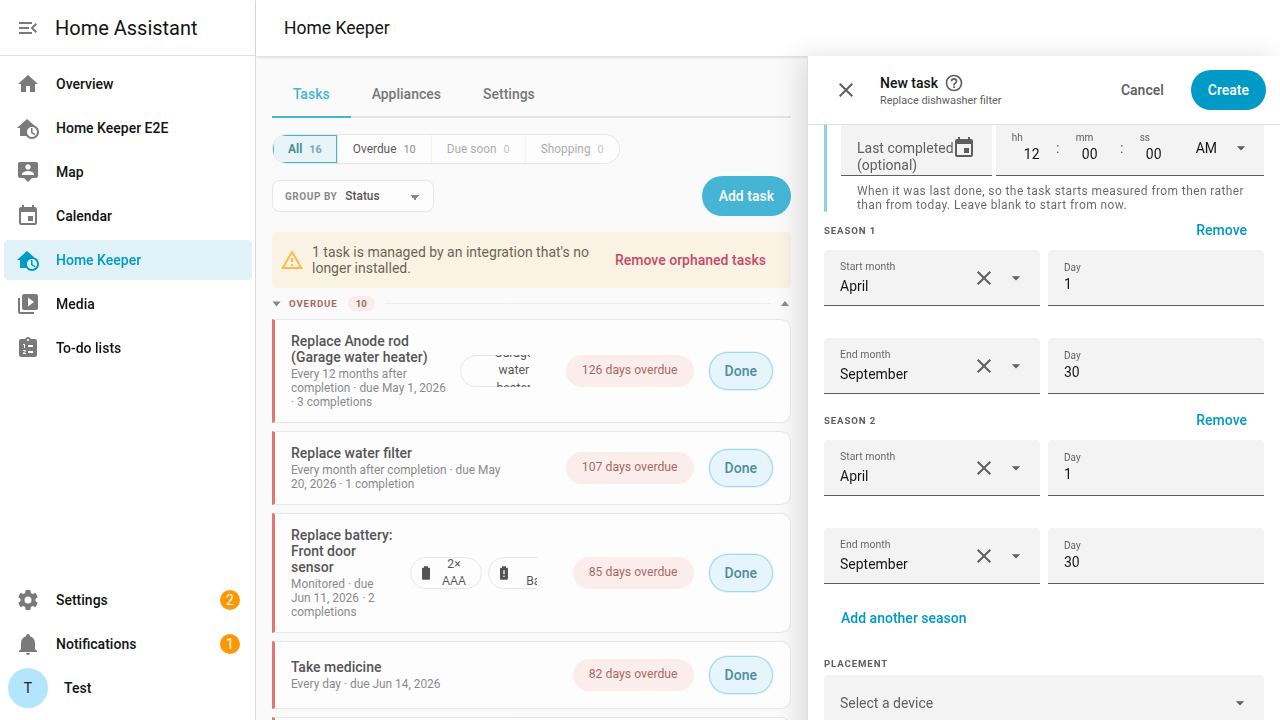
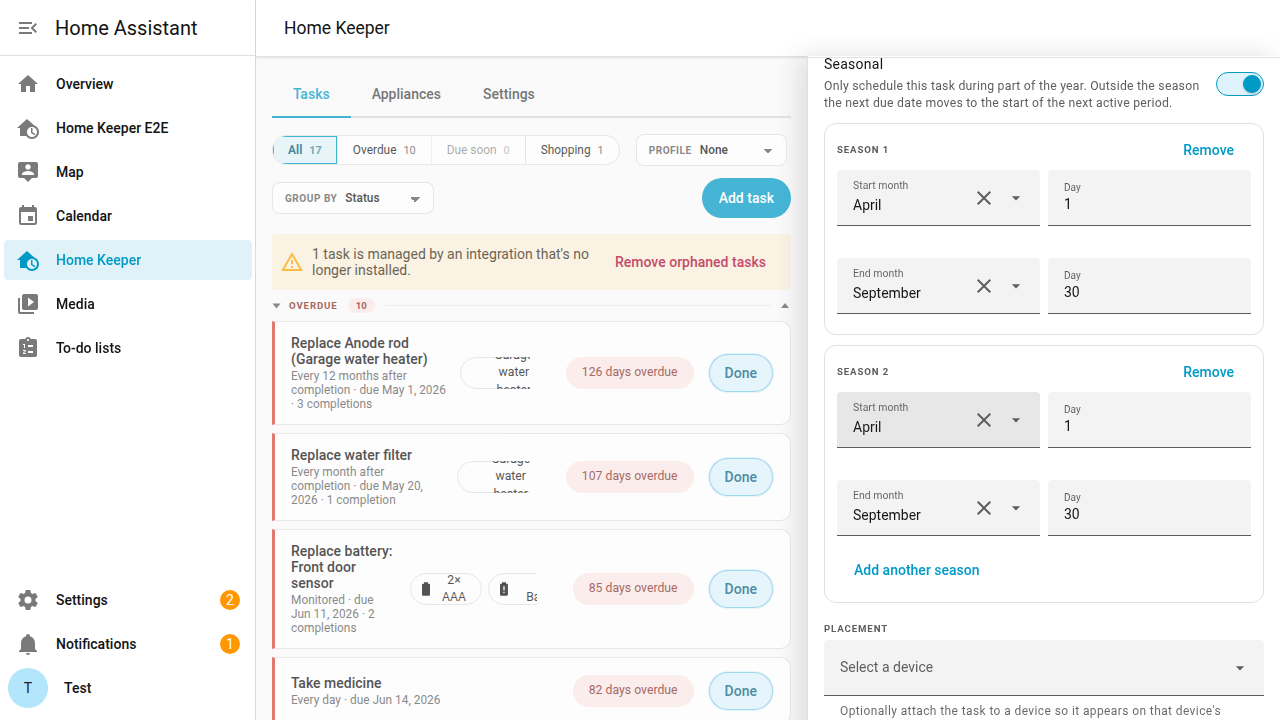
fix(panel): put the seasonal switch on top of its windows, and box each one
Three things read badly in the drawer. Remove sat loose beside a heading, so with
several windows on screen it was not obvious which one it removed — each window is
a bordered group now. The switch was called "Active season", naming a concept
rather than answering what it asks — it says "Seasonal". And it sat at the end of
the cadence run, so the anchor and "Last completed" came between the control and
what it controls; it is its own section directly above the windows now.

diff --git a/custom_components/home_keeper/frontend/src/forms.ts b/custom_components/home_keeper/frontend/src/forms.ts
@@ -558,10 +558,6 @@ export function taskSchemaSections(
   // "these exist because of the answer above" is visible rather than inferred.
   const cadenceSection: FormField[] = [
     ...(cadence ? [cadence] : []),
-    // Restrict the task to part of the year. The windows themselves are sections of
-    // their own (below), so each one can be headed and removed; only the switch that
-    // reveals them belongs with the cadence it qualifies.
-    ...(seasonOffered ? [{ name: 'season_on', selector: selBool() } as FormField] : []),
     ...sensorFields,
     ...(isFixed && !locked.has('anchor')
       ? [{ name: 'anchor', selector: selDateTime() } as FormField]
@@ -631,13 +627,21 @@ export function taskSchemaSections(
   // One section per active-season window, each holding the same two rows. A window
   // is a section rather than a run of fields so the panel can head it ("Season 1")
   // and offer Remove beside it — `ha-form` has no slot between its own rows.
-  const seasons: TaskSchemaSection[] =
-    seasonOffered && seasonEnabled(task)
-      ? Array.from({ length: seasonCount(task) }, (_, i) => ({
-          key: `season-${i + 1}`,
-          fields: seasonWindowFields(task, i + 1),
-        }))
-      : [];
+  // The switch and the windows it reveals are one run, so the switch is its own
+  // section directly above them rather than a field lost at the end of the cadence:
+  // with `anchor` and "Last completed" in between, the control and what it controls
+  // sat on opposite sides of the form.
+  const seasons: TaskSchemaSection[] = seasonOffered
+    ? [
+        { key: 'season', fields: [{ name: 'season_on', selector: selBool() }] },
+        ...(seasonEnabled(task)
+          ? Array.from({ length: seasonCount(task) }, (_, i) => ({
+              key: `season-${i + 1}`,
+              fields: seasonWindowFields(task, i + 1),
+            }))
+          : []),
+      ]
+    : [];
 
   return [
     { key: 'basics', fields: basics },

diff --git a/tests/e2e/screenshots.capture.ts b/tests/e2e/screenshots.capture.ts
@@ -511,7 +511,7 @@ test('capture Home Keeper panel + usage screenshots', async ({ page }) => {
   // than a single date range.
   await chooseHaSelect(panel.locator('#hk-task-form ha-select').first(), /after each completion/i);
   const seasonSwitch = panel
-    .locator('#hk-task-form-cadence ha-selector-boolean ha-switch')
+    .locator('#hk-task-form-season ha-switch')
     .first();
   if (!(await seasonSwitch.evaluate((el: HTMLInputElement) => el.checked))) {
     await seasonSwitch.click();
@@ -522,12 +522,9 @@ test('capture Home Keeper panel + usage screenshots', async ({ page }) => {
   // The windows sit near the bottom of a drawer that scrolls inside a 100vh column,
   // so scroll the first one to the top of the drawer: the shot then frames the season
   // from its switch down to Add another season, which is what someone editing it sees.
-  await panel.locator('#hk-task-form-cadence').evaluate((node: Element) => {
-    node.scrollIntoView({ block: 'start' });
-    // Then a little further, so "Add another season" is in frame under the second
-    // window: the point of the shot is that a task can carry as many as it needs.
-    node.closest('.hk-drawer-sticky')?.scrollBy({ top: 150 });
-  });
+  await panel
+    .locator('#hk-task-form-season')
+    .evaluate((node: Element) => node.scrollIntoView({ block: 'start' }));
   await page.evaluate(() => document.scrollingElement?.scrollTo({ top: 0, left: 0 }));
   await page.waitForTimeout(400);
   await page.screenshot({ path: `${OUT}/3b-panel-create-season.png` });

diff --git a/custom_components/home_keeper/frontend/test/forms-schema.test.js b/custom_components/home_keeper/frontend/test/forms-schema.test.js
@@ -105,12 +105,11 @@ describe('taskSchemaSections is exactly taskSchema, grouped', () => {
     expect(schedule).toBeGreaterThanOrEqual(0);
     expect(cadence).toBeGreaterThan(schedule);
     expect(names(sections[schedule].fields)).toEqual(['recurrence_type']);
-    expect(names(sections[cadence].fields)).toEqual([
-      'interval',
-      'unit',
-      'season_on',
-      'last_completed',
-    ]);
+    expect(names(sections[cadence].fields)).toEqual(['interval', 'unit', 'last_completed']);
+    // The season switch is its own section, directly above the windows it reveals.
+    const season = sections.findIndex((s) => s.key === 'season');
+    expect(season).toBe(cadence + 1);
+    expect(names(sections[season].fields)).toEqual(['season_on']);
     expect(sections[cadence].dependent).toBe(true);
     // Only the revealed run is dependent — the rest stand on their own.
     expect(sections.filter((s) => s.dependent).map((s) => s.key)).toEqual(['cadence']);
@@ -233,8 +232,8 @@ describe('taskSchema by recurrence type', () => {
       'recurrence_type',
       'interval',
       'unit',
-      'season_on',
       'last_completed',
+      'season_on',
       'device_id',
       'area_id',
       'tag_id',
@@ -251,9 +250,9 @@ describe('taskSchema by recurrence type', () => {
       'recurrence_type',
       'interval',
       'freq',
-      'season_on',
       'anchor',
       'last_completed',
+      'season_on',
       'device_id',
       'area_id',
       'tag_id',

diff --git a/custom_components/home_keeper/frontend/src/panel-styles.ts b/custom_components/home_keeper/frontend/src/panel-styles.ts
@@ -335,6 +335,17 @@ export const STYLES = `
   /* One active-season window: its number on the left, Remove on the right, and
      Add another season under the last one — a list the user edits, so the heading
      row carries the controls that change its length. */
+  /* Each window is boxed so its Remove is visibly its own: with several windows in
+     a row, an unboxed Remove reads as "remove a season" rather than "remove this
+     one". */
+  .hk-season-window {
+    border: 1px solid var(--divider-color, #e0e0e0);
+    border-radius: var(--hk-r-md, 12px);
+    padding: 4px 12px 12px;
+    margin: 10px 0;
+  }
+  .hk-season-window .hk-form-section:first-child { margin-top: 8px; }
+  .hk-season-switch { display: block; margin-top: 14px; }
   .hk-season-head {
     display: flex; align-items: center; justify-content: space-between; gap: 8px;
   }

diff --git a/custom_components/home_keeper/frontend/src/panel-task-form.ts b/custom_components/home_keeper/frontend/src/panel-task-form.ts
@@ -489,6 +489,11 @@ export function renderTaskForm(p: PanelHost, host: HTMLElement): void {
       : 0;
     if (seasonIndex) {
       formWrap.appendChild(seasonWindow(p, seasonIndex, seasonCount(task), form));
+    } else if (section.key === 'season') {
+      // The switch that reveals the windows, sitting directly on top of them with no
+      // heading of its own — the field names itself.
+      form.classList.add('hk-season-switch');
+      formWrap.appendChild(form);
     } else if (section.dependent) {
       // A run that only exists because of the answer above it, indented behind a
       // rule and captioned with what revealed it.

diff --git a/tests/e2e/walkthrough.capture.ts b/tests/e2e/walkthrough.capture.ts
@@ -370,7 +370,7 @@ async function desktopTour(page: Page, panel: Locator): Promise<void> {
   await page.getByRole('menuitem', { name: /after each completion/i }).first().click();
   await page.waitForTimeout(BEAT);
   const seasonSwitch = panel
-    .locator('#hk-task-form-cadence ha-selector-boolean ha-switch')
+    .locator('#hk-task-form-season ha-switch')
     .first();
   await seasonSwitch.click();
   await expect(panel.locator('#hk-task-form-season-1')).toBeVisible();

diff --git a/tests/e2e/tests/season.spec.ts b/tests/e2e/tests/season.spec.ts
@@ -124,7 +124,7 @@ test.describe('Home Keeper panel — active season', () => {
     await panel.waitFor({ state: 'attached', timeout: 45_000 });
     await panel.locator('.d-edit').click();
     const seasonSwitch = panel
-      .locator('#hk-task-form-cadence ha-selector-boolean ha-switch')
+      .locator('#hk-task-form-season ha-switch')
       .first();
     await seasonSwitch.click();
     await expect(panel.locator('#hk-task-form-season-1')).toHaveCount(0);
